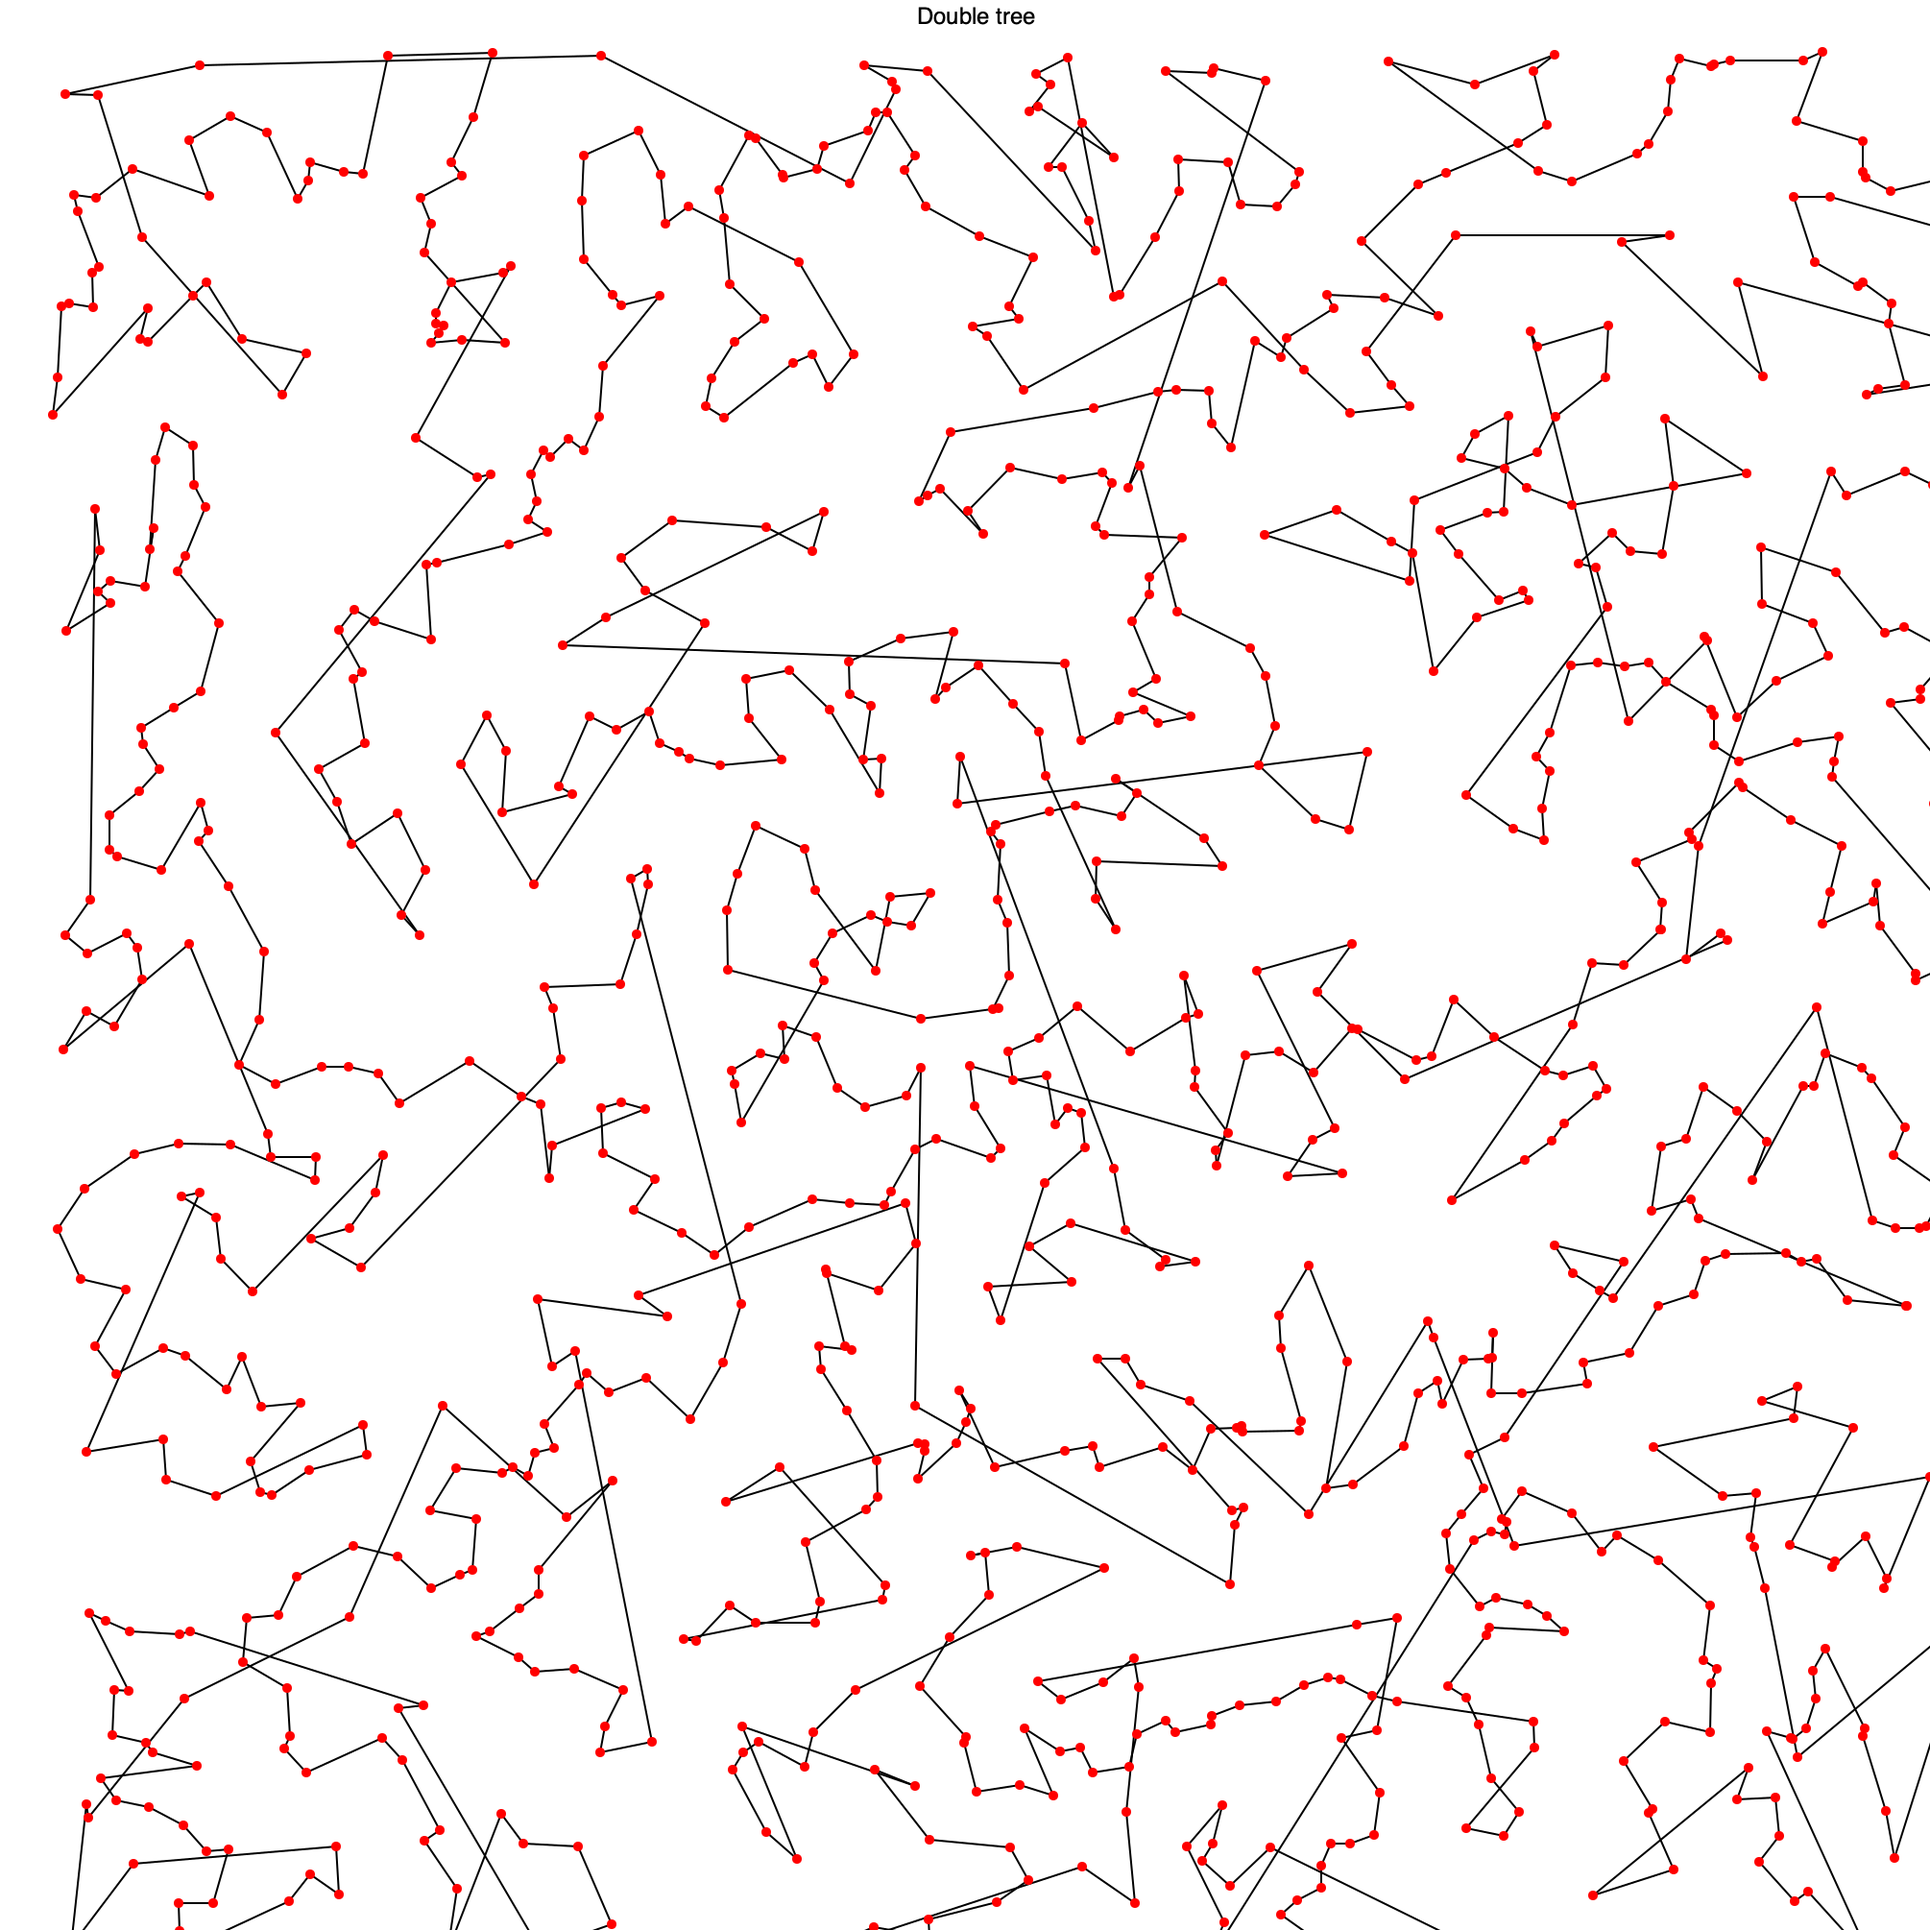
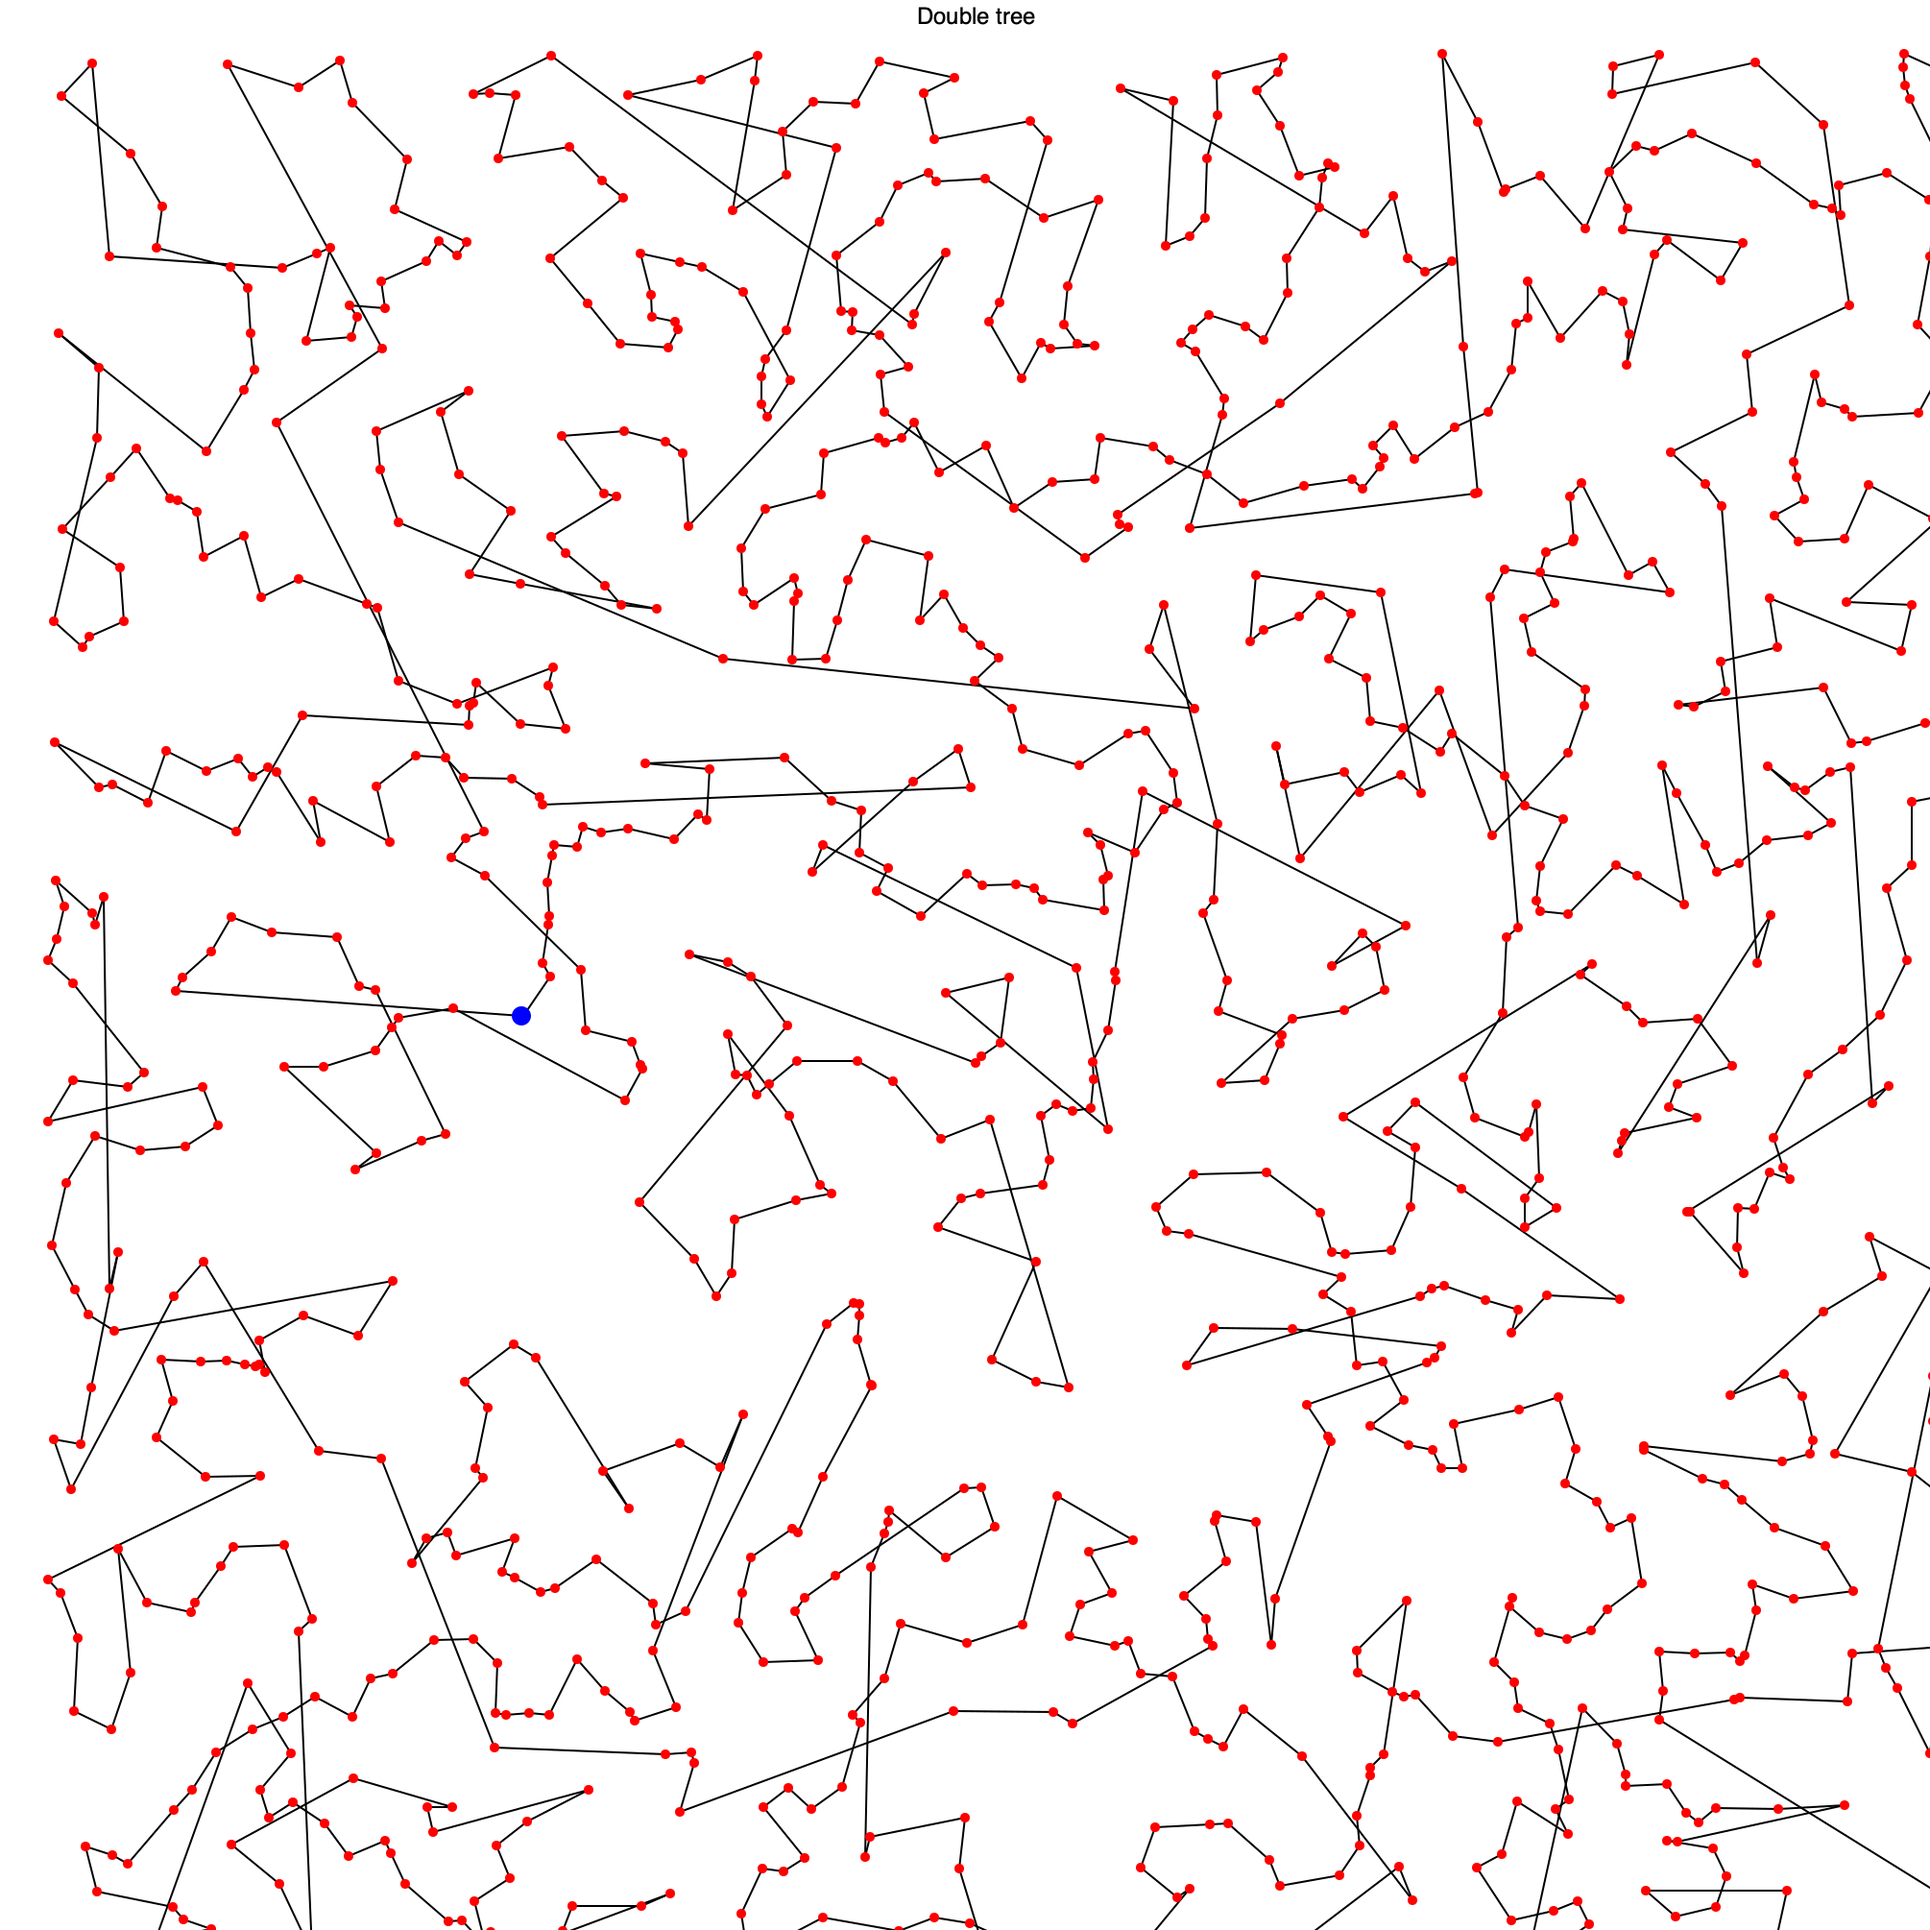
Add first node highlighting

diff --git a/DrawingUtils.h b/DrawingUtils.h
@@ -23,10 +23,10 @@ void drawPathTSP(const std::unordered_map<int, City> &cities, const std::vector<
     // Draw cities and paths
     cairo_set_line_width(cr, 2);
 
-    for (size_t i = 0; i < tspPath.size(); ++i)
+    for (size_t i = 0; i < tspPath.size() - 1; ++i)
     {
         int currentIndex = tspPath[i];
-        int nextIndex = tspPath[(i + 1) % tspPath.size()]; // loop back to the start
+        int nextIndex = tspPath[i + 1];
 
         const City &currentCity = cities.at(currentIndex);
         const City &nextCity = cities.at(nextIndex);
@@ -41,8 +41,16 @@ void drawPathTSP(const std::unordered_map<int, City> &cities, const std::vector<
     for (const auto &pair : cities)
     {
         const City &city = pair.second;
-        cairo_set_source_rgb(cr, 1, 0, 0);
-        cairo_arc(cr, city.x + margin, city.y + margin, 5, 0, 2 * M_PI);
+        if (pair.first == 0)
+        {
+            cairo_set_source_rgb(cr, 0, 0, 1);
+            cairo_arc(cr, city.x + margin, city.y + margin, 10, 0, 2 * M_PI);
+        }
+        else
+        {
+            cairo_set_source_rgb(cr, 1, 0, 0);
+            cairo_arc(cr, city.x + margin, city.y + margin, 5, 0, 2 * M_PI);
+        }
         cairo_fill(cr);
     }
 
